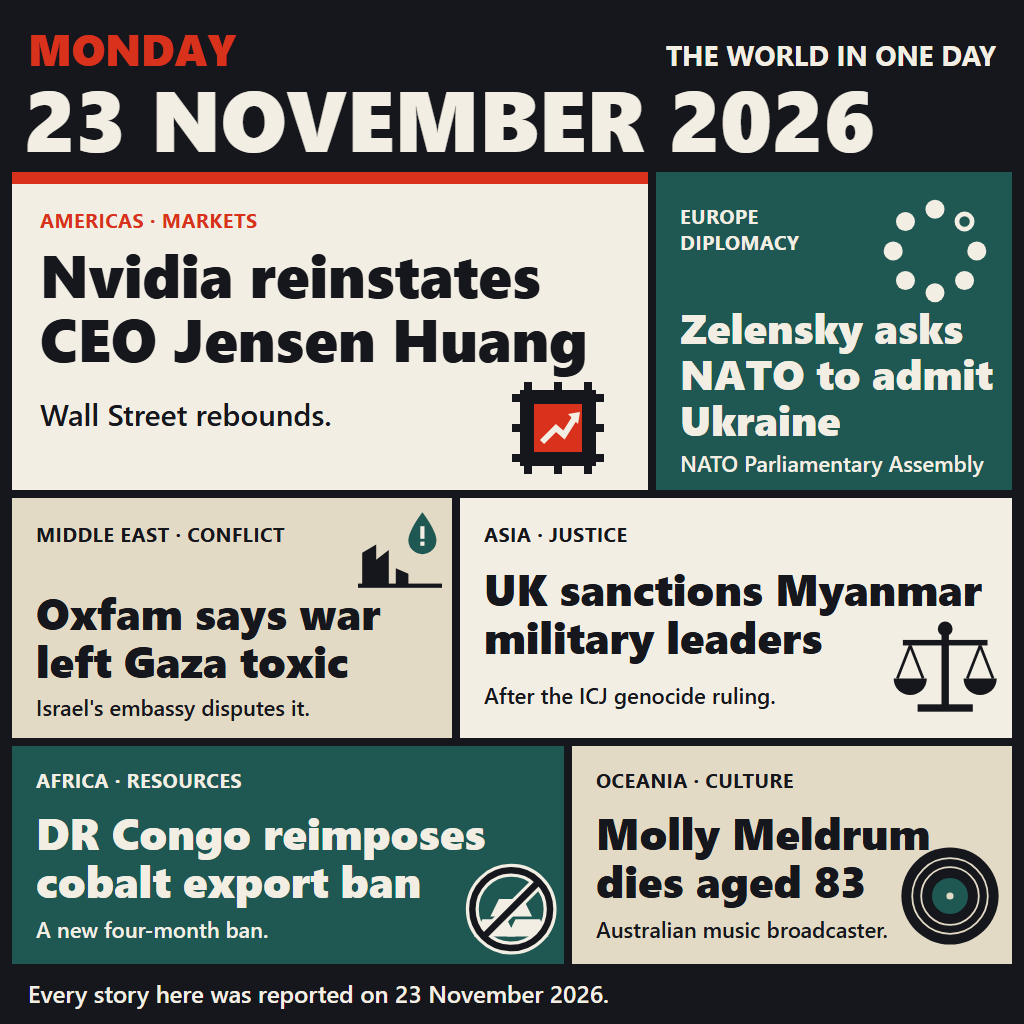
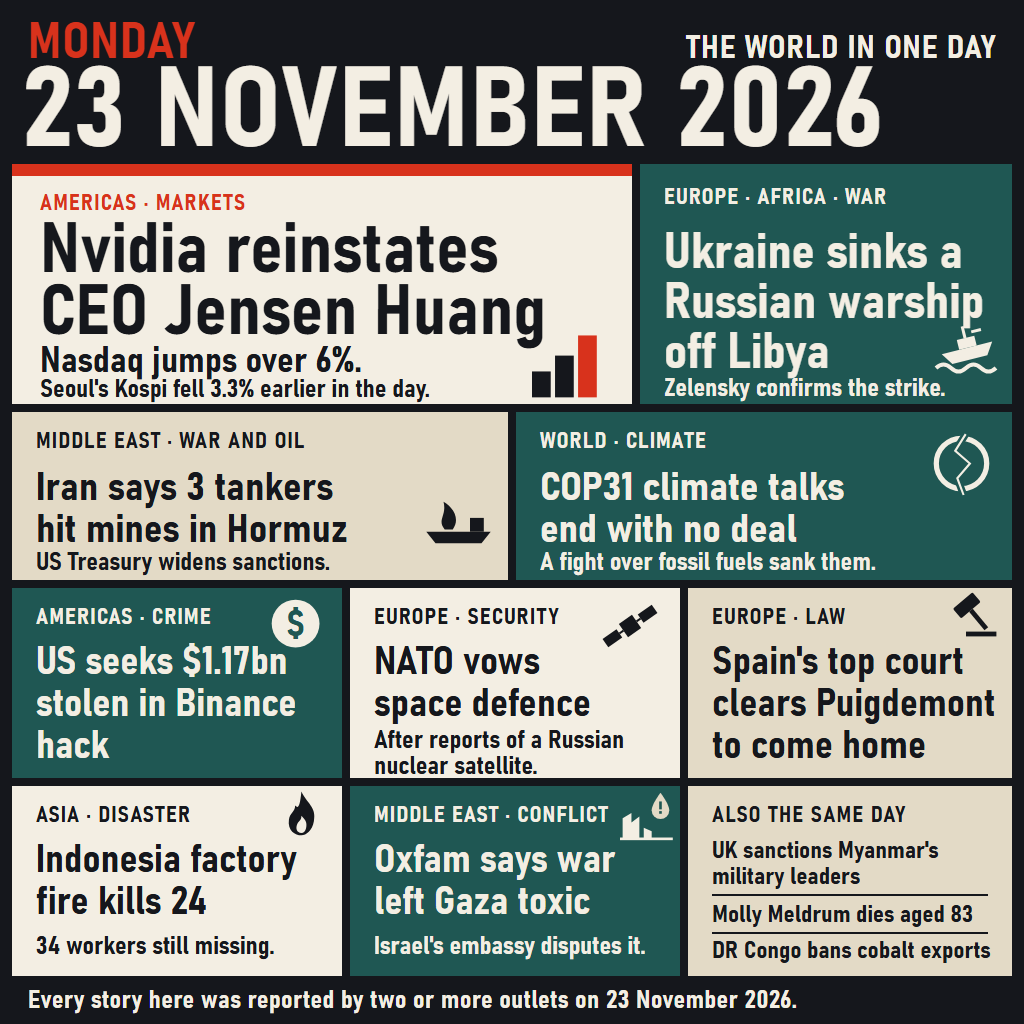
Poster v2: twelve stories, Nasdaq/Nvidia lead, Libya warship, Hormuz, COP31, Binance

diff --git a/poster/poster.html b/poster/poster.html
@@ -4,7 +4,7 @@
 <meta charset="utf-8">
 <title>Monday 23 November 2026: the world in one day</title>
 <style>
-  /* Palette: ink + paper as neutrals, teal as the one core colour, red as the single accent.
+  /* Palette: ink + two paper tones as neutrals, teal as the one core colour, red as the single accent.
      Red marks the day and the lead story only. */
   :root {
     --ink: #15171c;
@@ -16,154 +16,206 @@
   html, body { margin: 0; padding: 0; background: var(--ink); }
   body { width: 1024px; height: 1024px; overflow: hidden; }
   svg { display: block; width: 1024px; height: 1024px; }
-  /* One family: a heavy system grotesque stays readable when the poster is shrunk to a thumbnail. */
-  text { font-family: "Segoe UI", Arial, "Helvetica Neue", sans-serif; }
-  .day    { font-size: 44px; font-weight: 800; fill: var(--red); }
-  .date   { font-size: 86px; font-weight: 800; fill: var(--paper); }
-  .kicker { font-size: 28px; font-weight: 700; fill: var(--paper); }
-  .tag    { font-size: 20px; font-weight: 700; letter-spacing: 0.4px; }
-  .h-lead { font-size: 60px; font-weight: 800; fill: var(--ink); }
-  .h      { font-size: 44px; font-weight: 800; }
-  .h-sm   { font-size: 42px; font-weight: 800; }
-  .sub    { font-size: 22px; font-weight: 600; }
-  .sub-lead { font-size: 30px; font-weight: 600; }
+  /* One family: Bahnschrift, a DIN-style grotesque, set condensed so long headlines can stay large.
+     It is a wire-service look, and it holds up when the poster is shrunk to a thumbnail. */
+  text {
+    font-family: "Bahnschrift", "Arial Narrow", "Segoe UI", sans-serif;
+    font-stretch: 75%;
+    font-variation-settings: "wdth" 75, "wght" 700;
+    font-weight: 700;
+  }
+  .day    { font-size: 50px; fill: var(--red); letter-spacing: 1px; }
+  .date   { font-size: 112px; fill: var(--paper); letter-spacing: 1px; }
+  .kicker { font-size: 32px; fill: var(--paper); letter-spacing: 1px; }
+  .tag    { font-size: 22px; letter-spacing: 1.2px; }
+  .h-lead { font-size: 70px; fill: var(--ink); }
+  .h-big  { font-size: 50px; }
+  .h-sm   { font-size: 39px; }
+  .h      { font-size: 40px; }
+  .sub    { font-size: 25px; }
+  .sub-lead { font-size: 36px; fill: var(--ink); }
+  .sub-lead2 { font-size: 25px; fill: var(--ink); }
+  .brief  { font-size: 24px; }
   .on-ink   { fill: var(--ink); }
   .on-paper { fill: var(--paper); }
-  .foot   { font-size: 24px; font-weight: 600; fill: var(--paper); }
+  .foot   { font-size: 25px; fill: var(--paper); letter-spacing: 0.4px; }
 </style>
 </head>
 <body>
 <svg viewBox="0 0 1024 1024" xmlns="http://www.w3.org/2000/svg" role="img"
-     aria-label="Front page for Monday 23 November 2026: Nvidia reinstates its CEO, Zelensky asks NATO to admit Ukraine, Oxfam report on Gaza, UK sanctions Myanmar military leaders, DR Congo reimposes cobalt export ban, Molly Meldrum dies aged 83.">
+     aria-label="Front page for Monday 23 November 2026: Nvidia reinstates its CEO and the Nasdaq jumps over 6 percent; Ukraine sinks a Russian warship off Libya; Iran says three tankers hit mines in Hormuz; COP31 climate talks end with no deal; the US seeks 1.17 billion dollars stolen in the Binance hack; NATO vows space defence; Spain's top court clears Puigdemont to return; an Indonesian factory fire kills 24; Oxfam says war left Gaza toxic; UK sanctions Myanmar's military leaders; Molly Meldrum dies aged 83; DR Congo reimposes a cobalt export ban.">
   <rect width="1024" height="1024" fill="#15171c"/>
 
   <!-- Banner: the day and date come first. -->
-  <text class="day" x="28" y="66">MONDAY</text>
-  <text class="kicker" x="996" y="66" text-anchor="end">THE WORLD IN ONE DAY</text>
-  <text class="date" x="24" y="152">23 NOVEMBER 2026</text>
+  <text class="day" x="28" y="58">MONDAY</text>
+  <text class="kicker" x="996" y="58" text-anchor="end">THE WORLD IN ONE DAY</text>
+  <text class="date" x="22" y="146">23 NOVEMBER 2026</text>
 
-  <!-- 1. Lead: Nvidia (Americas, markets). Largest tile, accent bar. -->
-  <g transform="translate(12 172)">
-    <rect width="636" height="318" fill="#f3eee3"/>
-    <rect width="636" height="12" fill="#d8321c"/>
-    <text class="tag" x="28" y="56" fill="#d8321c">AMERICAS · MARKETS</text>
-    <text class="h-lead" x="28" y="126">Nvidia reinstates</text>
-    <text class="h-lead" x="28" y="190">CEO Jensen Huang</text>
-    <text class="sub-lead on-ink" x="28" y="254">Wall Street rebounds.</text>
-    <!-- Chip with a rising arrow: a processor maker and a market that went up. -->
-    <g transform="translate(486 196)">
-      <g fill="#15171c">
-        <rect x="14" y="26" width="12" height="8"/><rect x="14" y="56" width="12" height="8"/><rect x="14" y="86" width="12" height="8"/>
-        <rect x="94" y="26" width="12" height="8"/><rect x="94" y="56" width="12" height="8"/><rect x="94" y="86" width="12" height="8"/>
-        <rect x="26" y="14" width="8" height="12"/><rect x="56" y="14" width="8" height="12"/><rect x="86" y="14" width="8" height="12"/>
-        <rect x="26" y="94" width="8" height="12"/><rect x="56" y="94" width="8" height="12"/><rect x="86" y="94" width="8" height="12"/>
-        <rect x="22" y="22" width="76" height="76"/>
+  <!-- 1. Lead: Nvidia and the Nasdaq (Americas, markets). Largest tile, the only one with the accent bar. -->
+  <g transform="translate(12 164)">
+    <rect width="620" height="240" fill="#f3eee3"/>
+    <rect width="620" height="12" fill="#d8321c"/>
+    <text class="tag" x="28" y="46" fill="#d8321c">AMERICAS · MARKETS</text>
+    <text class="h-lead" x="28" y="108">Nvidia reinstates</text>
+    <text class="h-lead" x="28" y="170">CEO Jensen Huang</text>
+    <text class="sub-lead" x="28" y="208">Nasdaq jumps over 6%.</text>
+    <text class="sub-lead2" x="28" y="233">Seoul's Kospi fell 3.3% earlier in the day.</text>
+    <!-- Rising bars: a market that jumped. -->
+    <g transform="translate(520 170) scale(0.72)">
+      <rect x="0" y="52" width="26" height="36" fill="#15171c"/>
+      <rect x="32" y="30" width="26" height="58" fill="#15171c"/>
+      <rect x="64" y="2" width="26" height="86" fill="#d8321c"/>
+    </g>
+  </g>
+
+  <!-- 2. Ukraine sinks a Russian warship off Libya (Europe and Africa, war). -->
+  <g transform="translate(640 164)">
+    <rect width="372" height="240" fill="#1f5753"/>
+    <text class="tag on-paper" x="24" y="40">EUROPE · AFRICA · WAR</text>
+    <text class="h-big on-paper" x="24" y="104">Ukraine sinks a</text>
+    <text class="h-big on-paper" x="24" y="154">Russian warship</text>
+    <text class="h-big on-paper" x="24" y="204">off Libya</text>
+    <!-- Hull going down by the stern on a line of waves. -->
+    <g transform="translate(296 150) scale(1.0)" fill="#f3eee3">
+      <g transform="rotate(-14 30 30)">
+        <polygon points="4,34 56,34 48,46 12,46"/>
+        <rect x="22" y="24" width="18" height="10"/>
+        <rect x="29" y="12" width="3" height="12"/>
+        <rect x="38" y="18" width="10" height="3"/>
       </g>
-      <rect x="36" y="36" width="48" height="48" fill="#d8321c"/>
-      <polyline points="44,74 58,60 66,67 78,48" fill="none" stroke="#f3eee3" stroke-width="6" stroke-linejoin="miter"/>
-      <polygon points="70,46 82,44 80,56" fill="#f3eee3"/>
+      <path d="M0 54 q7.5 -7 15 0 t15 0 t15 0 t15 0" fill="none" stroke="#f3eee3" stroke-width="4"/>
+    </g>
+    <text class="sub on-paper" x="24" y="232">Zelensky confirms the strike.</text>
+  </g>
+
+  <!-- 3. Iran and Hormuz (Middle East, war and oil). -->
+  <g transform="translate(12 412)">
+    <rect width="496" height="168" fill="#e3dac6"/>
+    <text class="tag on-ink" x="24" y="36">MIDDLE EAST · WAR AND OIL</text>
+    <text class="h on-ink" x="24" y="88">Iran says 3 tankers</text>
+    <text class="h on-ink" x="24" y="130">hit mines in Hormuz</text>
+    <text class="sub on-ink" x="24" y="158">US Treasury widens sanctions.</text>
+    <!-- Tanker with a flame rising from its deck. -->
+    <g transform="translate(412 76) scale(1.15)" fill="#15171c">
+      <polygon points="2,38 58,38 50,48 10,48"/>
+      <rect x="40" y="26" width="12" height="12"/>
+      <path d="M18 36 C11 28 20 24 17 12 C27 18 31 28 25 36Z"/>
     </g>
   </g>
 
-  <!-- 2. Ukraine and NATO (Europe, diplomacy). -->
-  <g transform="translate(656 172)">
-    <rect width="356" height="318" fill="#1f5753"/>
-    <text class="tag on-paper" x="24" y="52">EUROPE</text>
-    <text class="tag on-paper" x="24" y="78">DIPLOMACY</text>
-    <!-- Ring of allied seats with one seat still open: a country asking to be admitted. -->
-    <g transform="translate(222 22) scale(0.95)" fill="#f3eee3">
-      <circle cx="60" cy="16" r="10"/><circle cx="104" cy="60" r="10"/><circle cx="91.1" cy="91.1" r="10"/>
-      <circle cx="60" cy="104" r="10"/><circle cx="28.9" cy="91.1" r="10"/><circle cx="16" cy="60" r="10"/>
-      <circle cx="28.9" cy="28.9" r="10"/>
-      <circle cx="91.1" cy="28.9" r="8" fill="none" stroke="#f3eee3" stroke-width="5"/>
+  <!-- 4. COP31 (world, climate). -->
+  <g transform="translate(516 412)">
+    <rect width="496" height="168" fill="#1f5753"/>
+    <text class="tag on-paper" x="24" y="36">WORLD · CLIMATE</text>
+    <text class="h on-paper" x="24" y="88">COP31 climate talks</text>
+    <text class="h on-paper" x="24" y="130">end with no deal</text>
+    <text class="sub on-paper" x="24" y="158">A fight over fossil fuels sank them.</text>
+    <!-- A globe split by a crack. -->
+    <g transform="translate(414 20) scale(1.05)">
+      <circle cx="30" cy="30" r="24" fill="none" stroke="#f3eee3" stroke-width="5"/>
+      <polyline points="34,2 24,18 38,30 26,44 32,60" fill="none" stroke="#1f5753" stroke-width="7"/>
+      <polyline points="34,2 24,18 38,30 26,44 32,60" fill="none" stroke="#f3eee3" stroke-width="2"/>
     </g>
-    <text class="h-sm on-paper" x="24" y="172">Zelensky asks</text>
-    <text class="h-sm on-paper" x="24" y="218">NATO to admit</text>
-    <text class="h-sm on-paper" x="24" y="264">Ukraine</text>
-    <text class="sub on-paper" x="24" y="300">NATO Parliamentary Assembly</text>
   </g>
 
-  <!-- 3. Gaza (Middle East, conflict and environment). -->
-  <g transform="translate(12 498)">
-    <rect width="440" height="240" fill="#e3dac6"/>
-    <text class="tag on-ink" x="24" y="44">MIDDLE EAST · CONFLICT</text>
-    <!-- Broken walls and a warning drop: contamination left by the war, as Oxfam reports. -->
-    <g transform="translate(346 10) scale(0.7)">
-      <g fill="#15171c">
+  <!-- 5. Binance hack (Americas, crime). -->
+  <g transform="translate(12 588)">
+    <rect width="330" height="190" fill="#1f5753"/>
+    <text class="tag on-paper" x="24" y="36">AMERICAS · CRIME</text>
+    <text class="h-sm on-paper" x="24" y="86">US seeks $1.17bn</text>
+    <text class="h-sm on-paper" x="24" y="128">stolen in Binance</text>
+    <text class="h-sm on-paper" x="24" y="170">hack</text>
+    <!-- Coin. -->
+    <g transform="translate(256 8) scale(0.92)">
+      <circle cx="30" cy="30" r="26" fill="#f3eee3"/>
+      <text x="30" y="43" text-anchor="middle" fill="#1f5753" style="font-size:40px">$</text>
+    </g>
+  </g>
+
+  <!-- 6. NATO and space (Europe, security). -->
+  <g transform="translate(350 588)">
+    <rect width="330" height="190" fill="#f3eee3"/>
+    <text class="tag on-ink" x="24" y="36">EUROPE · SECURITY</text>
+    <text class="h-sm on-ink" x="24" y="86">NATO vows</text>
+    <text class="h-sm on-ink" x="24" y="128">space defence</text>
+    <text class="sub on-ink" x="24" y="160">After reports of a Russian</text>
+    <text class="sub on-ink" x="24" y="186">nuclear satellite.</text>
+    <!-- Satellite. -->
+    <g transform="translate(250 8) scale(1.0)" fill="#15171c">
+      <g transform="rotate(-35 30 30)">
+        <rect x="22" y="22" width="16" height="16"/>
+        <rect x="0" y="25" width="17" height="10"/>
+        <rect x="43" y="25" width="17" height="10"/>
+        <rect x="17" y="29" width="5" height="2"/>
+        <rect x="38" y="29" width="5" height="2"/>
+      </g>
+    </g>
+  </g>
+
+  <!-- 7. Puigdemont (Europe, politics and law). -->
+  <g transform="translate(688 588)">
+    <rect width="324" height="190" fill="#e3dac6"/>
+    <text class="tag on-ink" x="24" y="36">EUROPE · LAW</text>
+    <text class="h-sm on-ink" x="24" y="86">Spain's top court</text>
+    <text class="h-sm on-ink" x="24" y="128">clears Puigdemont</text>
+    <text class="h-sm on-ink" x="24" y="170">to come home</text>
+    <!-- Gavel. -->
+    <g transform="translate(262 2) scale(0.8)" fill="#15171c">
+      <g transform="rotate(-40 30 30)">
+        <rect x="14" y="8" width="32" height="16" rx="2"/>
+        <rect x="27" y="24" width="6" height="30"/>
+      </g>
+      <rect x="20" y="52" width="38" height="6"/>
+    </g>
+  </g>
+
+  <!-- 8. Indonesia fire (Asia, disaster). -->
+  <g transform="translate(12 786)">
+    <rect width="330" height="190" fill="#f3eee3"/>
+    <text class="tag on-ink" x="24" y="36">ASIA · DISASTER</text>
+    <text class="h-sm on-ink" x="24" y="86">Indonesia factory</text>
+    <text class="h-sm on-ink" x="24" y="128">fire kills 24</text>
+    <text class="sub on-ink" x="24" y="168">34 workers still missing.</text>
+    <!-- Flame. -->
+    <g transform="translate(266 4) scale(0.78)">
+      <path d="M30 2 C36 16 50 22 46 40 C44 52 36 58 30 58 C22 58 12 52 14 38 C15 30 22 28 22 20 C26 24 28 22 30 2Z" fill="#15171c"/>
+      <path d="M30 55 C24 55 22 49 25 43 C27 39 30 39 30 33 C34 37 38 41 36 49 C35 53 33 55 30 55Z" fill="#f3eee3"/>
+    </g>
+  </g>
+
+  <!-- 9. Gaza (Middle East, conflict and environment). -->
+  <g transform="translate(350 786)">
+    <rect width="330" height="190" fill="#1f5753"/>
+    <text class="tag on-paper" x="24" y="36">MIDDLE EAST · CONFLICT</text>
+    <text class="h-sm on-paper" x="24" y="86">Oxfam says war</text>
+    <text class="h-sm on-paper" x="24" y="128">left Gaza toxic</text>
+    <text class="sub on-paper" x="24" y="168">Israel's embassy disputes it.</text>
+    <!-- Broken walls and a warning drop. -->
+    <g transform="translate(270 4) scale(0.44)">
+      <g fill="#f3eee3">
         <polygon points="6,112 6,64 26,52 26,74 44,60 44,112"/>
         <polygon points="54,112 54,86 72,94 72,112"/>
         <rect x="0" y="108" width="120" height="6"/>
       </g>
-      <path d="M92 6 C92 6 72 32 72 46 a20 20 0 0 0 40 0 C112 32 92 6 92 6Z" fill="#1f5753"/>
-      <rect x="89" y="26" width="6" height="18" fill="#f3eee3"/><rect x="89" y="48" width="6" height="6" fill="#f3eee3"/>
-    </g>
-    <text class="h on-ink" x="24" y="132">Oxfam says war</text>
-    <text class="h on-ink" x="24" y="180">left Gaza toxic</text>
-    <text class="sub on-ink" x="24" y="218">Israel's embassy disputes it.</text>
-  </g>
-
-  <!-- 4. Myanmar (Asia, justice). -->
-  <g transform="translate(460 498)">
-    <rect width="552" height="240" fill="#f3eee3"/>
-    <text class="tag on-ink" x="24" y="44">ASIA · JUSTICE</text>
-    <text class="h on-ink" x="24" y="108">UK sanctions Myanmar</text>
-    <text class="h on-ink" x="24" y="156">military leaders</text>
-    <text class="sub on-ink" x="24" y="206">After the ICJ genocide ruling.</text>
-    <!-- Scales: a court ruling and the penalties that followed. -->
-    <g transform="translate(430 118) scale(0.92)" fill="#15171c">
-      <circle cx="60" cy="14" r="8"/>
-      <rect x="56" y="14" width="8" height="84"/>
-      <rect x="30" y="96" width="60" height="8"/>
-      <rect x="14" y="26" width="92" height="6"/>
-      <g stroke="#15171c" stroke-width="3" fill="none">
-        <line x1="22" y1="32" x2="8" y2="68"/><line x1="22" y1="32" x2="36" y2="68"/>
-        <line x1="98" y1="32" x2="84" y2="68"/><line x1="98" y1="32" x2="112" y2="68"/>
-      </g>
-      <path d="M4 68 H40 A18 18 0 0 1 4 68Z"/>
-      <path d="M80 68 H116 A18 18 0 0 1 80 68Z"/>
+      <path d="M92 6 C92 6 72 32 72 46 a20 20 0 0 0 40 0 C112 32 92 6 92 6Z" fill="#e3dac6"/>
+      <rect x="89" y="26" width="6" height="18" fill="#1f5753"/><rect x="89" y="48" width="6" height="6" fill="#1f5753"/>
     </g>
   </g>
 
-  <!-- 5. Congo cobalt (Africa, resources). -->
-  <g transform="translate(12 746)">
-    <rect width="552" height="218" fill="#1f5753"/>
-    <text class="tag on-paper" x="24" y="42">AFRICA · RESOURCES</text>
-    <text class="h on-paper" x="24" y="104">DR Congo reimposes</text>
-    <text class="h on-paper" x="24" y="152">cobalt export ban</text>
-    <text class="sub on-paper" x="24" y="192">A new four-month ban.</text>
-    <!-- Ore chunks under a ban sign. -->
-    <g transform="translate(456 120) scale(0.72)">
-      <g fill="#f3eee3">
-        <polygon points="8,98 20,74 54,74 66,98"/>
-        <polygon points="54,98 66,74 100,74 112,98"/>
-        <polygon points="31,70 43,46 77,46 89,70"/>
-      </g>
-      <circle cx="60" cy="60" r="54" fill="none" stroke="#f3eee3" stroke-width="18"/>
-      <line x1="22" y1="98" x2="98" y2="22" stroke="#f3eee3" stroke-width="18"/>
-      <circle cx="60" cy="60" r="54" fill="none" stroke="#15171c" stroke-width="9"/>
-      <line x1="22" y1="98" x2="98" y2="22" stroke="#15171c" stroke-width="9"/>
-    </g>
-  </g>
-
-  <!-- 6. Molly Meldrum (Oceania, culture). -->
-  <g transform="translate(572 746)">
-    <rect width="440" height="218" fill="#e3dac6"/>
-    <text class="tag on-ink" x="24" y="42">OCEANIA · CULTURE</text>
-    <text class="h on-ink" x="24" y="104">Molly Meldrum</text>
-    <text class="h on-ink" x="24" y="152">dies aged 83</text>
-    <text class="sub on-ink" x="24" y="192">Australian music broadcaster.</text>
-    <!-- Record: a life spent on popular music. -->
-    <g transform="translate(324 96) scale(0.9)">
-      <circle cx="60" cy="60" r="54" fill="#15171c"/>
-      <circle cx="60" cy="60" r="42" fill="none" stroke="#e3dac6" stroke-width="2"/>
-      <circle cx="60" cy="60" r="32" fill="none" stroke="#e3dac6" stroke-width="2"/>
-      <circle cx="60" cy="60" r="20" fill="#1f5753"/>
-      <circle cx="60" cy="60" r="4" fill="#e3dac6"/>
-    </g>
+  <!-- 10. Also that day: three shorter stories from Asia, Oceania and Africa. -->
+  <g transform="translate(688 786)">
+    <rect width="324" height="190" fill="#e3dac6"/>
+    <text class="tag on-ink" x="24" y="36">ALSO THE SAME DAY</text>
+    <text class="brief on-ink" x="24" y="72">UK sanctions Myanmar's</text>
+    <text class="brief on-ink" x="24" y="98">military leaders</text>
+    <rect x="24" y="108" width="276" height="2" fill="#15171c"/>
+    <text class="brief on-ink" x="24" y="136">Molly Meldrum dies aged 83</text>
+    <rect x="24" y="146" width="276" height="2" fill="#15171c"/>
+    <text class="brief on-ink" x="24" y="172">DR Congo bans cobalt exports</text>
   </g>
 
   <!-- Footer: the one claim this page makes about itself. -->
-  <text class="foot" x="28" y="1003">Every story here was reported on 23 November 2026.</text>
+  <text class="foot" x="28" y="1008">Every story here was reported by two or more outlets on 23 November 2026.</text>
 </svg>
 </body>
 </html>

diff --git a/README.md b/README.md
@@ -4,9 +4,9 @@
 [![rank](https://make.fun/badge/news-image-20261123/magicwarms/news-image-20261123/rank.svg)](https://make.fun/bounty/news-image-20261123/leaderboard?utm_source=github&utm_medium=readme&utm_campaign=news-image-20261123)
 [![reward](https://make.fun/badge/news-image-20261123/magicwarms/news-image-20261123/reward.svg)](https://make.fun/bounty/news-image-20261123?utm_source=github&utm_medium=readme&utm_campaign=news-image-20261123)
 
-A one-page poster of the news from Monday 23 November 2026: six stories from six regions, each confirmed by at least two independent outlets that day. The poster is drawn as inline SVG in `poster/poster.html`, rendered once to `entry.png` by `poster/render.mjs`, and `main.ts` copies that PNG to the output folder.
+A one-page poster of the news from Monday 23 November 2026: twelve stories from every region, each confirmed by at least two outlets that day. The poster is drawn as inline SVG in `poster/poster.html`, rendered once to `entry.png` by `poster/render.mjs`, and `main.ts` copies that PNG to the output folder.
 
-The six stories: Nvidia reinstating CEO Jensen Huang, Zelensky asking NATO to admit Ukraine, Oxfam's report on contamination in Gaza (disputed by Israel's embassy), UK sanctions on Myanmar military leaders after the ICJ genocide ruling, DR Congo's new cobalt export ban, and the death of Australian music broadcaster Molly Meldrum.
+The stories: Nvidia reinstating CEO Jensen Huang as the Nasdaq jumps over 6% (Seoul's Kospi fell 3.3% earlier), Ukraine sinking a Russian warship off Libya, Iran saying three tankers hit mines in Hormuz, the COP31 climate talks ending with no deal, the US seeking $1.17bn stolen in the Binance hack, NATO vowing space defence after reports of a Russian nuclear satellite, Spain's top court clearing Puigdemont to return, the Indonesian factory fire (24 dead, 34 missing), Oxfam's report on contamination in Gaza (disputed by Israel's embassy), UK sanctions on Myanmar military leaders, the death of Molly Meldrum, and DR Congo's cobalt export ban.
 
 ## Run it
 
